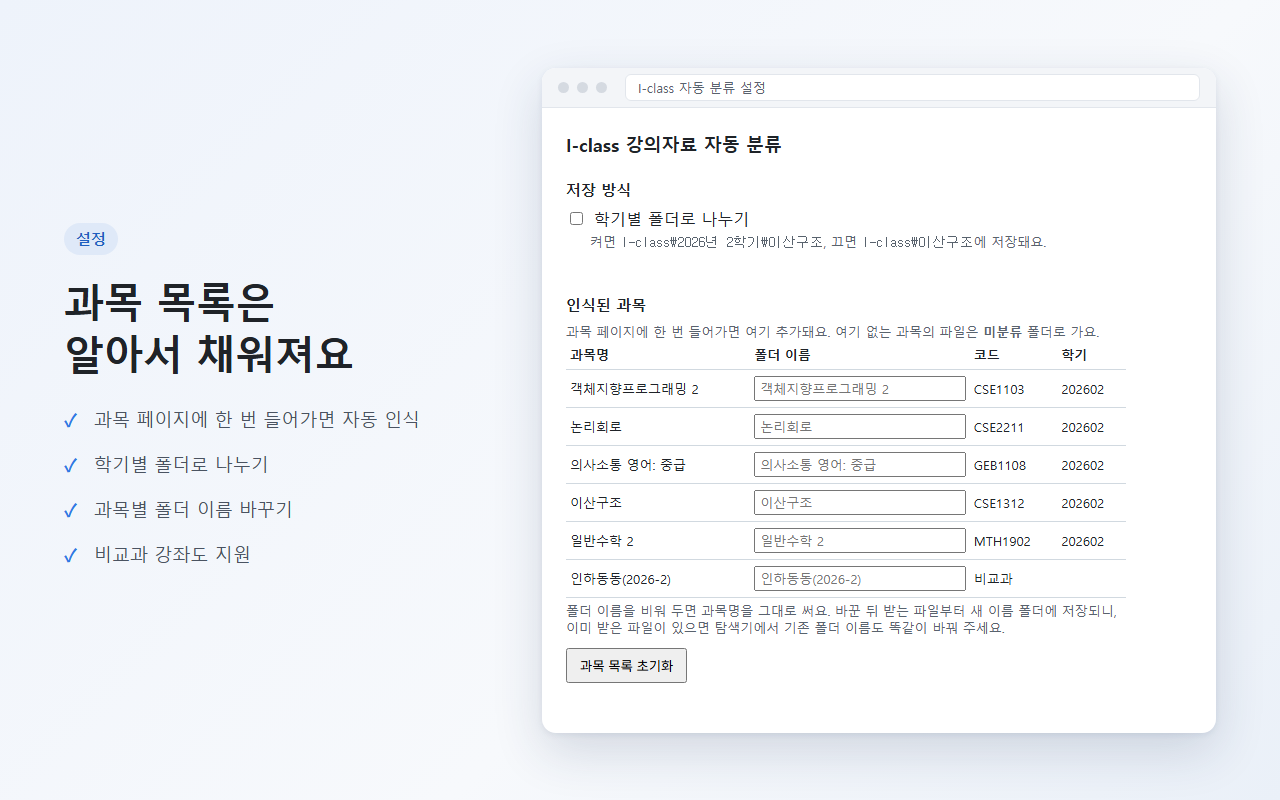
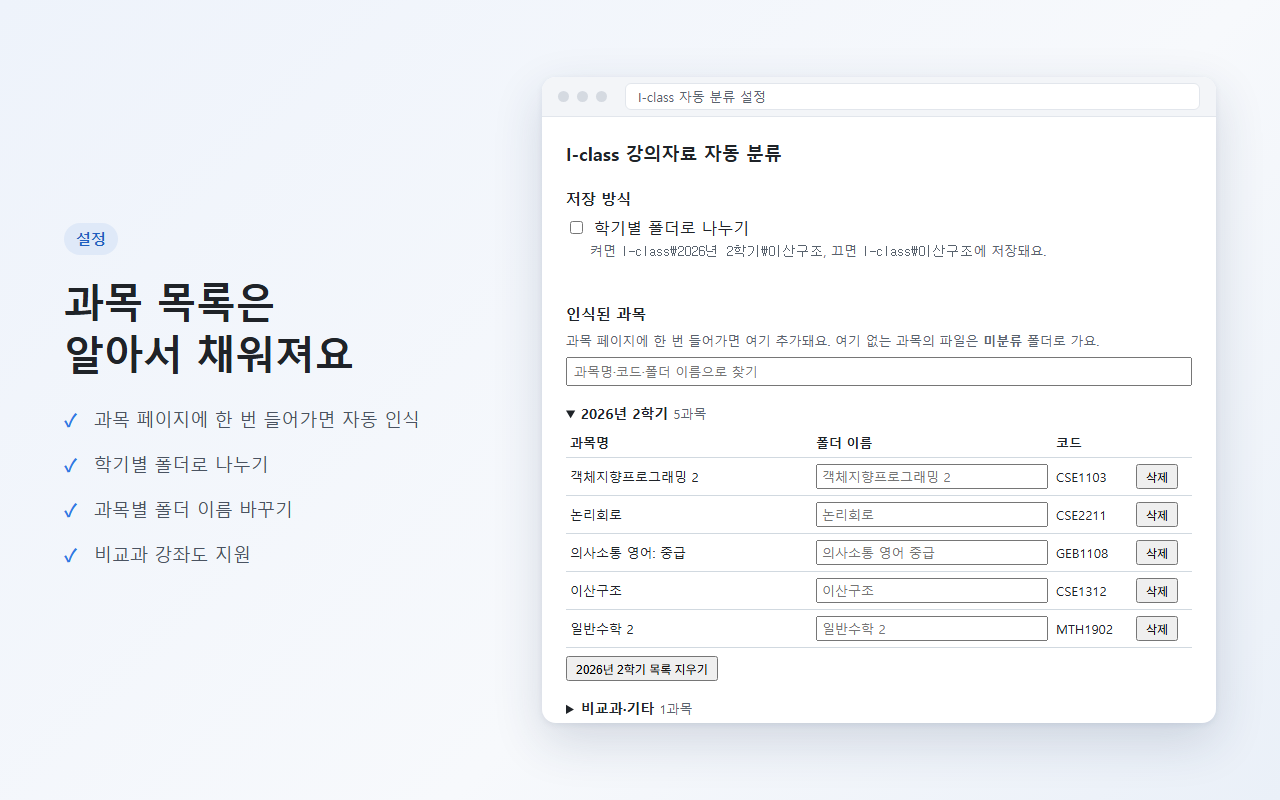
1.0.4 문서 정리: 개인정보처리방침 삭제 방법, 설정 스크린샷 갱신
- PRIVACY.md: 없어진 "과목 목록 초기화" 버튼 대신 과목별 "삭제", 학기별 "목록 지우기"로 안내.
  시행일 2026-10-04, 변경 이력 추가
- 2-settings.png: 1.0.4 설정 화면(학기별 묶음·검색·삭제)으로 다시 촬영.
  shot2.html 창 높이를 내용에 맞춤
- listing.md: 스크린샷 재생성에 common.js 복사본도 필요하다고 안내

Changed region(s): [[0.4375, 0.375, 0.9375, 0.8438], [0.4375, 0.0938, 0.9375, 0.3438], [0.4375, 0.875, 0.9375, 0.9375]]

diff --git a/store/screenshots/src/shot2.html b/store/screenshots/src/shot2.html
@@ -4,7 +4,7 @@
   .copy ul { list-style: none; padding: 0; margin-top: 4px; }
   .copy li { font-size: 18px; line-height: 1.5; color: #4a5361; padding: 9px 0 9px 30px; position: relative; }
   .copy li::before { content: "✓"; position: absolute; left: 0; color: #2f7be5; font-weight: 700; }
-  iframe { display: block; width: 100%; height: 625px; border: 0; }
+  iframe { display: block; width: 100%; height: 606px; border: 0; }
 </style></head>
 <body>
   <div class="copy">

diff --git a/PRIVACY.md b/PRIVACY.md
@@ -1,6 +1,6 @@
 # 개인정보처리방침 — I-class 강의자료 자동 분류 (비공식)
 
-시행일: 2026-10-03
+시행일: 2026-10-04
 
 "I-class 강의자료 자동 분류"(이하 "확장 프로그램")는 인하대학교 I-class(learn.inha.ac.kr)에서 받은 파일을
 과목별 폴더에 저장하는 크롬 확장 프로그램입니다. 인하대학교의 공식 프로그램이 아닙니다.
@@ -26,12 +26,14 @@
 
 ## 3. 정보 삭제
 
-- 설정 페이지의 "과목 목록 초기화" 버튼으로 저장된 과목 정보를 지울 수 있습니다.
+- 설정 페이지 과목 목록의 "삭제"(과목별) 또는 "목록 지우기"(학기별) 버튼으로 저장된 과목 정보를 지울 수 있습니다.
 - 확장 프로그램을 삭제하면 브라우저에 저장된 모든 정보가 함께 삭제됩니다.
 
 ## 4. 변경
 
 이 방침이 바뀌면 이 페이지에 변경 내용과 시행일을 게시합니다.
+
+- 2026-10-04: 1.0.4 설정 화면에 맞춰 정보 삭제 방법 수정 ("과목 목록 초기화" 버튼 → 과목별 "삭제", 학기별 "목록 지우기"). 수집·저장하는 정보는 바뀌지 않았습니다.
 
 ## 5. 문의
 
